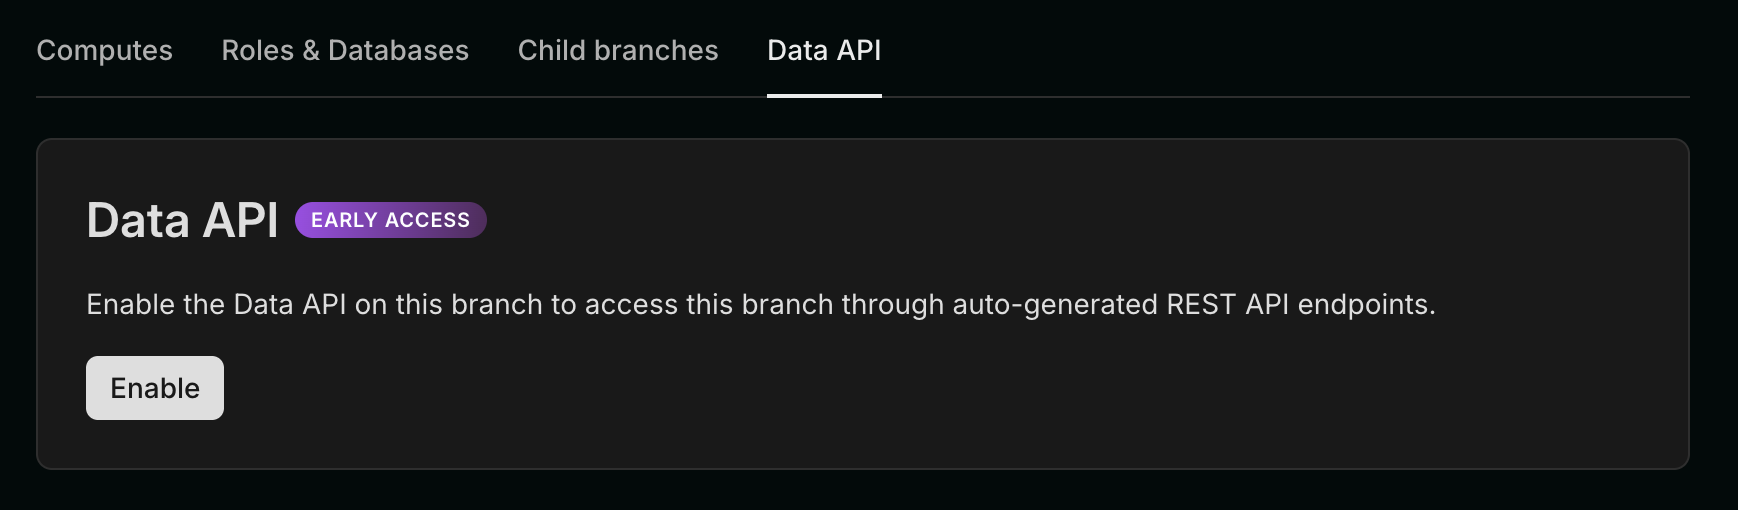
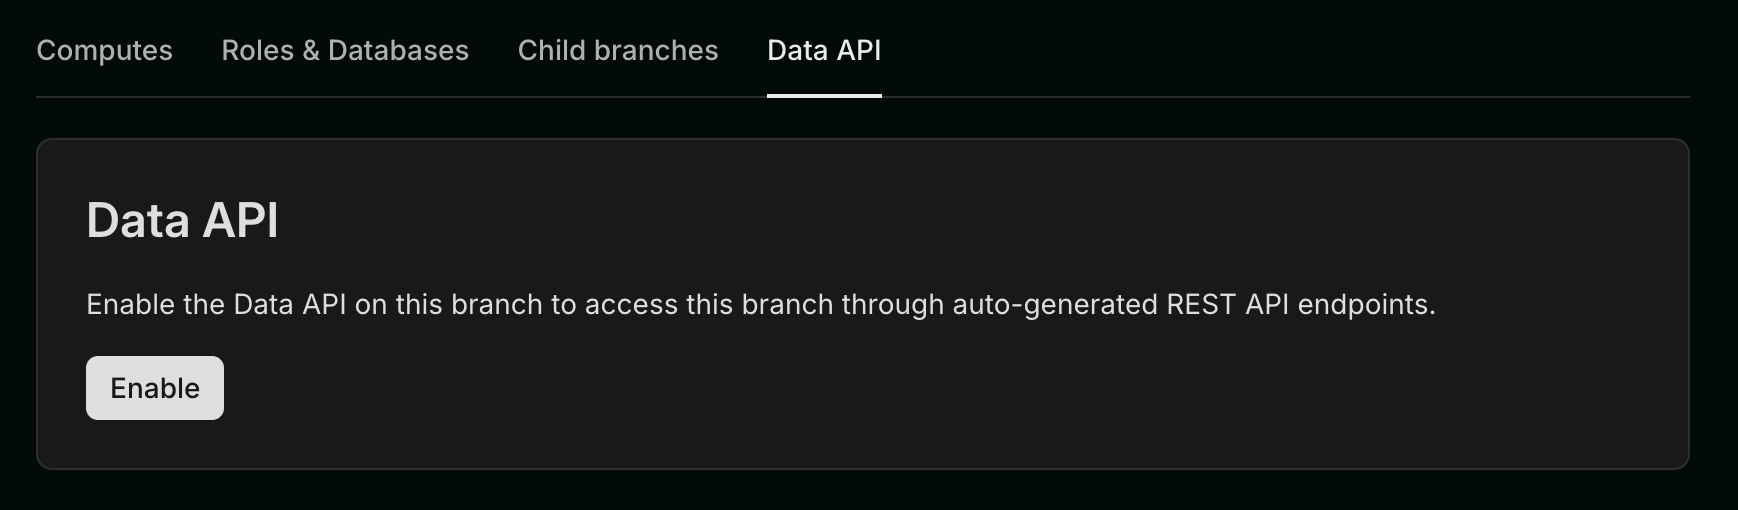
docs: draft

Changed region(s): [[0.1554, 0.3824, 0.2796, 0.4706]]

diff --git a/content/docs/data-api/get-started.md b/content/docs/data-api/get-started.md
@@ -5,6 +5,7 @@ description: >-
   your Neon database
 enableTableOfContents: true
 updatedOn: '2025-06-20T15:34:40.024Z'
+tag: beta
 ---
 
 <FeatureBetaProps feature_name="Neon Data API" />
@@ -12,9 +13,10 @@ updatedOn: '2025-06-20T15:34:40.024Z'
 <InfoBlock>
   <DocsList title="Related docs" theme="docs">
     <a href="/docs/guides/neon-auth">Neon Auth</a>
+    <a href="/docs/data-api/demo">Building a note-taking app</a>
   </DocsList>
   <DocsList title="Demo app" theme="repo">
-    <a href="https://github.com/neondatabase-labs/neon-data-api-neon-auth">Neon Data API Demo App</a>
+    <a href="https://github.com/neondatabase-labs/neon-data-api-neon-auth">Neon Data API demo note-taking app</a>
   </DocsList>
 </InfoBlock>
 
@@ -24,29 +26,45 @@ The Neon Data API is a ready-to-use REST API for your Neon database, powered by 
 const { data } = await client.from('playing_with_neon').select('*').gte('value', 0.5);
 ```
 
-> When using the Data API, it is essential to set up RLS policies so that you can safely expose your databases to clients such as web apps. Make sure that _all_ of your tables have RLS policies, and that you have carefully reviewed each policy.
-
 <Steps>
 ## Enabling the Data API
 
 You enable the Data API at the branch level for a single database.
 
-Go to the **Data API** tab for your branch and click the button to enable the Data API.
+To get started, navigate to the **Data API** tab in the Neon Console for your branch and click **Enable**.
 
 ![Data API tab with enable button](/docs/data-api/data-api-tab.png)
 
-Once enabled, you'll see your Data API Project URL here. Use this endpoint in your application.
+Once enabled, you'll see your Data API Project URL here.
 
 ![Data API enabled view with Project URL](/docs/data-api/data-api-enabled.png)
 
-**Next step:**  
-To secure your Data API, create Row-Level Security (RLS) policies for your tables. Using [Drizzle RLS](/docs/guides/neon-rls-drizzle) makes this much easier.
+You can use this URL for your API requests  — but make sure you secure your data before using in production.
 
-## API Authentication
+## API authentication
 
-When you call the `/data-api` endpoint described above, we automatically provision [**Neon Auth**](/docs/guides/neon-auth) for that project. We set up the Data API's authentication to match this instance of Neon Auth.
+When you enable the Data API, you'll see a configuration screen that shows the security status of your setup.
 
-This means you need to send a valid JWT from Neon Auth with every Data API request that is protected by RLS policies.
+![configuration section of Data API](/docs/data-api/data_api_config.png)
+
+The security model has two parts:
+
+### Neon Auth (automatically configured)
+Neon Auth provides user authentication for your application. It generates JWT tokens that your app uses to authenticate users and make secure API requests. 
+
+**What you need to do:**
+- Get your JWKS URL from the **Auth** > **Configuration** tab
+- Add that JWKS URL to your project's RLS settings so your policies can validate user tokens
+
+### Row-Level Security (RLS)
+
+RLS is a Postgres feature that controls which rows users can access in your tables. **Neon does not automatically enable RLS on existing tables** - you have to do this manually.
+
+See [secure your tables with RLS](#secure-your-tables-with-rls) below.
+
+<Admonition type="warning">
+**Critical Security:** If you see warnings about tables being "publicly accessible," this means RLS is not enabled on those tables. You must enable RLS and create appropriate policies before using the Data API in production.
+</Admonition>
 
 ### Third-party auth
 
@@ -61,98 +79,56 @@ curl --location 'https://console.neon.tech/api/v2/projects/<project_id>/branches
   }'
 ```
 
-## Using the Data API
+## Secure your tables with RLS
 
-By default, all tables in your database are accessible via the API with `SELECT` permissions granted to **unauthenticated requests**. This lets you directly interact with the API without requiring additional authorization headers.
-
-<Admonition type="warning">
-We strongly recommend enabling Row Level Security (RLS) on _all_ tables as soon as you enable the Data API. You can do this with:
+Before using the Data API in production, you must enable Neon RLS and create policies for your tables:
 
 ```sql
--- for every table, on every schema
-ALTER TABLE <schema_name>.<table_name> ENABLE ROW LEVEL SECURITY;
+-- Enable RLS on your table
+ALTER TABLE your_table ENABLE ROW LEVEL SECURITY;
+
+-- Create a policy (example: users can only access their own data)
+CREATE POLICY "user_can_access_own_data" ON your_table
+  FOR ALL USING (auth.user_id() = user_id);
 ```
 
-Review and test your RLS policies to ensure your data is protected.
-</Admonition>
+> **Important:** If you don't enable RLS, your tables will be publicly accessible via the Data API.
 
-Here’s an example of how you might set up and query a table:
+For detailed RLS setup, see our [RLS tutorial](/docs/guides/neon-rls-tutorial). We recommend using [Drizzle](/docs/guides/neon-rls-drizzle) to help simplify your RLS policies.
 
-```sql shouldWrap
-CREATE TABLE IF NOT EXISTS playing_with_neon(
-  id SERIAL PRIMARY KEY,
-  name TEXT NOT NULL,
-  value REAL
-);
+## Using the Data API
 
--- Enable Row Level Security
-ALTER TABLE playing_with_neon ENABLE ROW LEVEL SECURITY;
+By default, all tables in your database are accessible via the API with SELECT permissions granted to unauthenticated requests. However, **we strongly recommend enabling RLS** for production use.
 
--- (Optional) Example permissive policy for demo/testing:
-CREATE POLICY "Allow read access" ON playing_with_neon
-  FOR SELECT
-  USING (true);
+Here's how to make authenticated requests:
 
-INSERT INTO playing_with_neon(name, value)
-  SELECT LEFT(md5(i::TEXT), 10), random()
-  FROM generate_series(1, 10) s(i);
-
-SELECT * FROM playing_with_neon;
-```
-
-Example `curl` request:
-
-```bash shouldWrap
-curl --location --request GET 'https://app-restless-salad-23184734.dpl.myneon.app/playing_with_neon' \
-     --header 'Accept: application/json' \
-     --header 'Bearer: <jwt>'
-```
-
-Sample response:
-
-```json
-HTTP/1.1 200 OK
-Content-Type: application/json
-
-[
-  {
-    "id": 1,
-    "name": "c4ca4238a0",
-    "value": 0.36675808
-  },
-  ... (shortened)
-  {
-    "id": 10,
-    "name": "6512bd43d9",
-    "value": 0.72407603
-  }
-]
-
-```
-
-As the Data API is built on **PostgREST**, it follows PostgREST query and data manipulation formats. You can also use popular wrapper libraries such as **postgrest-js** [https://github.com/supabase/postgrest-js](https://github.com/supabase/postgrest-js) for more advanced integration.
-
-```javascript shouldWrap
+### Using postgrest-js
+```javascript
 import { PostgrestClient } from '@supabase/postgrest-js';
 
-// https://github.com/supabase/postgrest-js/blob/master/src/PostgrestClient.ts#L41
-const client = new PostgrestClient('https://app-restless-salad-23184734.dpl.myneon.app', {
-  Authorization: 'Bearer <jwt>',
-});
+const client = new PostgrestClient('YOUR_DATA_API_URL');
+
+// Include JWT token for authenticated requests
+client.auth(userToken);
 
 const { data } = await client.from('playing_with_neon').select('*').gte('value', 0.5);
-
-console.table(data);
 ```
 
-## Try our demo app!
+### Using curl
+```bash
+curl --location --request GET 'YOUR_DATA_API_URL/playing_with_neon' \
+     --header 'Accept: application/json' \
+     --header 'Authorization: Bearer <jwt>'
+```
 
-See how the Neon Data API works in a demo project:
+**Note:** The Data API is built on PostgREST, so you can use any PostgREST client library.
 
-- [Demo app repo](https://github.com/neondatabase-labs/neon-data-api-neon-auth)
-- [Live demo](https://neon-data-api-neon-auth.vercel.app/handler/sign-in?after_auth_return_to=%2F)
+## Try the demo app
 
-This project shows how to build a modern web app using direct-to-database queries (no backend required) with the Neon Data API and Neon Auth for authentication.
+To see a complete, working example of an application built with the Data API, Neon Auth, and RLS, check out our demo note-taking app.
+
+- **[Live Demo](https://neon-data-api-neon-auth.vercel.app/)**
+- **[GitHub Repository](https://github.com/neondatabase-labs/neon-data-api-neon-auth)**
 
 </Steps>
 
@@ -160,4 +136,3 @@ This project shows how to build a modern web app using direct-to-database querie
 
 - Faster cold starts (we're working on it)
 
-With these features in place, the Data API will become fully extensible to any service capable of signing a **JWT**. Combined with **Row-Level Security (RLS)** policies, you'll be able to create powerful backends for both authenticated and unauthenticated users.
